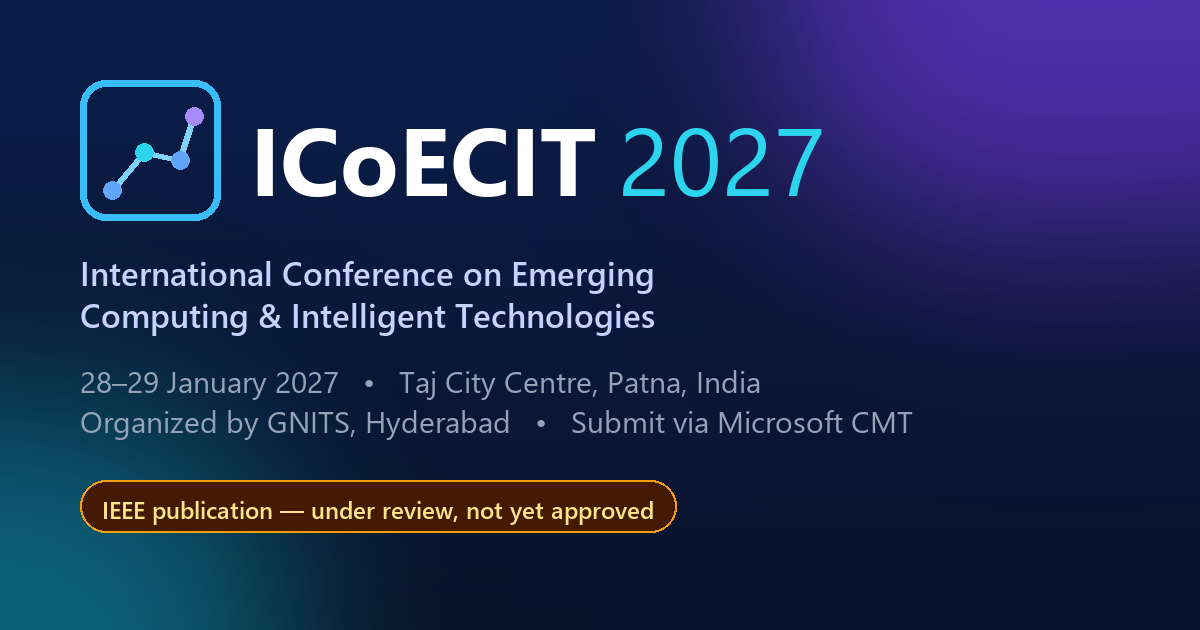
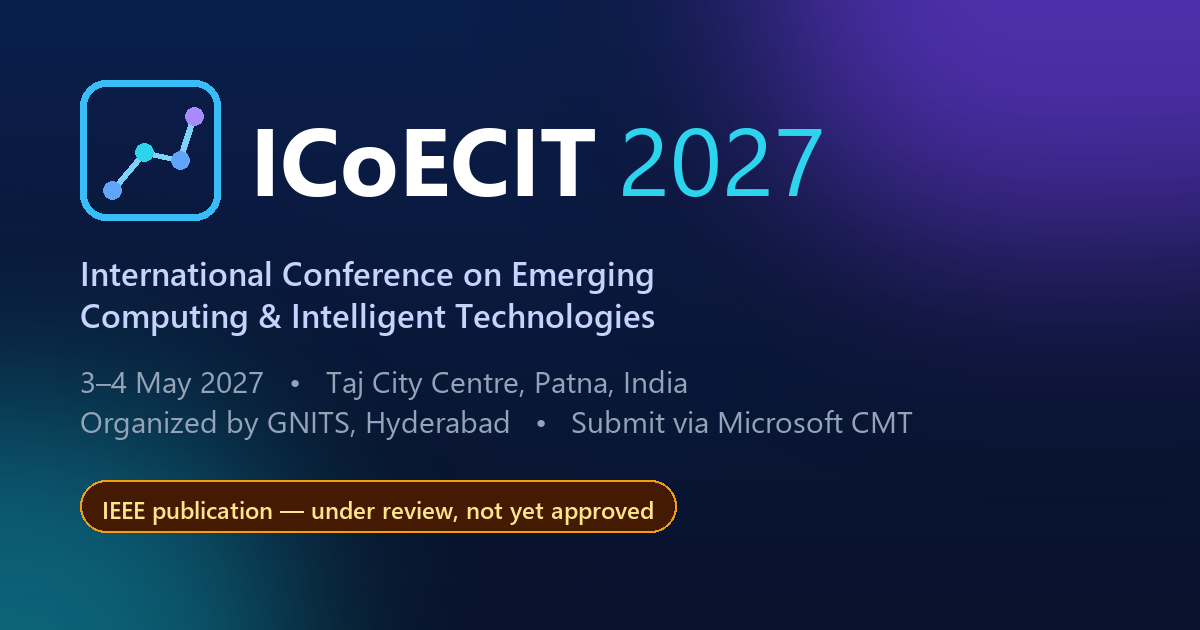
Set conference dates to 3–4 May 2027 and update deadlines
Submission 15 Feb 2027, acceptance 30 Mar 2027, camera-ready and
registration 7 Apr 2027. Updates homepage, CFP, registration, venue,
history, JSON-LD event dates, sitemap and the share image.

Changed region(s): [[0.0617, 0.573, 0.6475, 0.6333]]

diff --git a/index.html b/index.html
@@ -4,7 +4,7 @@
 <meta charset="UTF-8">
 <meta name="viewport" content="width=device-width, initial-scale=1.0">
 <title>ICoECIT 2027 | International Conference on Emerging Computing &amp; Intelligent Technologies</title>
-<meta name="description" content="ICoECIT 2027 — International Conference on Emerging Computing and Intelligent Technologies, 28–29 January 2027 at Taj City Centre, Patna, India. Organized by GNITS, Hyderabad. Call for papers in AI, ML, IoT, cybersecurity, VLSI and smart technologies. IEEE publication application under review.">
+<meta name="description" content="ICoECIT 2027 — International Conference on Emerging Computing and Intelligent Technologies, 3–4 May 2027 at Taj City Centre, Patna, India. Organized by GNITS, Hyderabad. Call for papers in AI, ML, IoT, cybersecurity, VLSI and smart technologies. IEEE publication application under review.">
 <link rel="icon" type="image/svg+xml" href="assets/img/favicon.svg">
 <link rel="preconnect" href="https://fonts.googleapis.com">
 <link rel="preconnect" href="https://fonts.gstatic.com" crossorigin>
@@ -19,7 +19,7 @@
 <meta property="og:type" content="website">
 <meta property="og:site_name" content="ICoECIT 2027">
 <meta property="og:title" content="ICoECIT 2027 | International Conference on Emerging Computing &amp; Intelligent Technologies">
-<meta property="og:description" content="ICoECIT 2027 — International Conference on Emerging Computing and Intelligent Technologies, 28–29 January 2027 at Taj City Centre, Patna, India. Organized by GNITS, Hyderabad. Call for papers in AI, ML, IoT, cybersecurity, VLSI and smart technologies. IEEE publication application under review.">
+<meta property="og:description" content="ICoECIT 2027 — International Conference on Emerging Computing and Intelligent Technologies, 3–4 May 2027 at Taj City Centre, Patna, India. Organized by GNITS, Hyderabad. Call for papers in AI, ML, IoT, cybersecurity, VLSI and smart technologies. IEEE publication application under review.">
 <meta property="og:url" content="https://icoecit.github.io/icoecit2027/">
 <meta property="og:image" content="https://icoecit.github.io/icoecit2027/assets/img/og-image.png">
 <meta property="og:image:width" content="1200">
@@ -27,13 +27,13 @@
 <meta property="og:image:alt" content="ICoECIT 2027 — International Conference on Emerging Computing and Intelligent Technologies">
 <meta name="twitter:card" content="summary_large_image">
 <meta name="twitter:title" content="ICoECIT 2027 | International Conference on Emerging Computing &amp; Intelligent Technologies">
-<meta name="twitter:description" content="ICoECIT 2027 — International Conference on Emerging Computing and Intelligent Technologies, 28–29 January 2027 at Taj City Centre, Patna, India. Organized by GNITS, Hyderabad. Call for papers in AI, ML, IoT, cybersecurity, VLSI and smart technologies. IEEE publication application under review.">
+<meta name="twitter:description" content="ICoECIT 2027 — International Conference on Emerging Computing and Intelligent Technologies, 3–4 May 2027 at Taj City Centre, Patna, India. Organized by GNITS, Hyderabad. Call for papers in AI, ML, IoT, cybersecurity, VLSI and smart technologies. IEEE publication application under review.">
 <meta name="twitter:image" content="https://icoecit.github.io/icoecit2027/assets/img/og-image.png">
 <script type="application/ld+json">
-{"@context": "https://schema.org","@type": "Event","name": "ICoECIT 2027 — International Conference on Emerging Computing and Intelligent Technologies","startDate": "2027-01-28","endDate": "2027-01-29","eventAttendanceMode": "https://schema.org/MixedEventAttendanceMode","eventStatus": "https://schema.org/EventScheduled","location": {"@type": "Place","name": "Taj City Centre, Patna","address": {"@type": "PostalAddress","streetAddress": "Buddh Marg, Christian Colony","addressLocality": "Patna","addressRegion": "Bihar","postalCode": "800001","addressCountry": "IN"}},"image": ["https://icoecit.github.io/icoecit2027/assets/img/og-image.png"],"description": "ICoECIT 2027 — International Conference on Emerging Computing and Intelligent Technologies, 28–29 January 2027 at Taj City Centre, Patna, India. Organized by GNITS, Hyderabad. Call for papers in AI, ML, IoT, cybersecurity, VLSI and smart technologies. IEEE publication application under review.","organizer": {"@type": "Organization","name": "G. Narayanamma Institute of Technology & Science (GNITS)","url": "https://gnits.ac.in/"},"url": "https://icoecit.github.io/icoecit2027/"}
+{"@context": "https://schema.org","@type": "Event","name": "ICoECIT 2027 — International Conference on Emerging Computing and Intelligent Technologies","startDate": "2027-05-03","endDate": "2027-05-04","eventAttendanceMode": "https://schema.org/MixedEventAttendanceMode","eventStatus": "https://schema.org/EventScheduled","location": {"@type": "Place","name": "Taj City Centre, Patna","address": {"@type": "PostalAddress","streetAddress": "Buddh Marg, Christian Colony","addressLocality": "Patna","addressRegion": "Bihar","postalCode": "800001","addressCountry": "IN"}},"image": ["https://icoecit.github.io/icoecit2027/assets/img/og-image.png"],"description": "ICoECIT 2027 — International Conference on Emerging Computing and Intelligent Technologies, 3–4 May 2027 at Taj City Centre, Patna, India. Organized by GNITS, Hyderabad. Call for papers in AI, ML, IoT, cybersecurity, VLSI and smart technologies. IEEE publication application under review.","organizer": {"@type": "Organization","name": "G. Narayanamma Institute of Technology & Science (GNITS)","url": "https://gnits.ac.in/"},"url": "https://icoecit.github.io/icoecit2027/"}
 </script>
 <script type="application/ld+json">
-{"@context": "https://schema.org","@type": "WebSite","name": "ICoECIT 2027","url": "https://icoecit.github.io/icoecit2027/","description": "ICoECIT 2027 — International Conference on Emerging Computing and Intelligent Technologies, 28–29 January 2027 at Taj City Centre, Patna, India. Organized by GNITS, Hyderabad. Call for papers in AI, ML, IoT, cybersecurity, VLSI and smart technologies. IEEE publication application under review."}
+{"@context": "https://schema.org","@type": "WebSite","name": "ICoECIT 2027","url": "https://icoecit.github.io/icoecit2027/","description": "ICoECIT 2027 — International Conference on Emerging Computing and Intelligent Technologies, 3–4 May 2027 at Taj City Centre, Patna, India. Organized by GNITS, Hyderabad. Call for papers in AI, ML, IoT, cybersecurity, VLSI and smart technologies. IEEE publication application under review."}
 </script>
 <script type="application/ld+json">
 {"@context": "https://schema.org","@type": "Organization","name": "G. Narayanamma Institute of Technology & Science (GNITS)","url": "https://gnits.ac.in/","contactPoint": {"@type": "ContactPoint","email": "icoecitconferencesecetary@gmail.com","contactType": "conference secretariat"}}
@@ -76,7 +76,7 @@
     <h1>Emerging Computing &amp; Intelligent Technologies</h1>
     <p class="lede">ICoECIT&nbsp;2027 brings together researchers, academicians, industry professionals and innovators to explore the frontiers of modern computing and intelligent systems — from AI and IoT to cybersecurity, embedded systems and smart electronics.</p>
     <ul class="meta">
-      <li><span class="ic">📅</span><span>28–29 January 2027 <small>Conference dates</small></span></li>
+      <li><span class="ic">📅</span><span>3–4 May 2027 <small>Conference dates</small></span></li>
       <li><span class="ic">📍</span><span>Patna, India <small>Taj City Centre (tentative)</small></span></li>
       <li><span class="ic">🎓</span><span>Hybrid <small>On-site &amp; Online</small></span></li>
     </ul>
@@ -160,16 +160,16 @@
     <div class="section-head">
       <span class="eyebrow">Save the Date</span>
       <h2>Important dates</h2>
-      <p>The schedule below follows the ICoECIT&nbsp;2026 timeline. Dates are indicative and subject to confirmation pending the outcome of the publisher review.</p>
+      <p>Dates are indicative and subject to confirmation pending the outcome of the publisher review.</p>
     </div>
     <ul class="dates" style="max-width:760px;margin-inline:auto">
-      <li><span class="when">Paper Submission Deadline</span><span class="what">30 October 2026</span></li>
-      <li><span class="when">Notification of Acceptance</span><span class="what">1 December 2026</span></li>
-      <li><span class="when">Camera-Ready Submission</span><span class="what">10 December 2026</span></li>
-      <li><span class="when">Author Registration Deadline</span><span class="what">10 December 2026</span></li>
-      <li><span class="when">Conference Dates</span><span class="what">28–29 January 2027 · Taj City Centre, Patna (tentative)</span></li>
+      <li><span class="when">Paper Submission Deadline</span><span class="what">15 February 2027</span></li>
+      <li><span class="when">Notification of Acceptance</span><span class="what">30 March 2027</span></li>
+      <li><span class="when">Camera-Ready Submission</span><span class="what">7 April 2027</span></li>
+      <li><span class="when">Author Registration Deadline</span><span class="what">7 April 2027</span></li>
+      <li><span class="when">Conference Dates</span><span class="what">3–4 May 2027 · Taj City Centre, Patna (tentative)</span></li>
     </ul>
-    <p class="center muted" style="margin-top:22px;font-size:.9rem">Dates mirror the 2026 edition and may be adjusted; final dates will be confirmed once the conference is approved by the publisher.</p>
+    <p class="center muted" style="margin-top:22px;font-size:.9rem">Dates may be adjusted; final dates will be confirmed once the conference is approved by the publisher.</p>
   </div>
 </section>
 

diff --git a/venue.html b/venue.html
@@ -4,7 +4,7 @@
 <meta charset="UTF-8">
 <meta name="viewport" content="width=device-width, initial-scale=1.0">
 <title>Venue — Taj City Centre, Patna | ICoECIT 2027</title>
-<meta name="description" content="ICoECIT 2027 tentative venue: Taj City Centre, Patna, Bihar, India, on 28–29 January 2027. Travel, how to reach and local attractions. Organized by GNITS, Hyderabad.">
+<meta name="description" content="ICoECIT 2027 tentative venue: Taj City Centre, Patna, Bihar, India, on 3–4 May 2027. Travel, how to reach and local attractions. Organized by GNITS, Hyderabad.">
 <link rel="icon" type="image/svg+xml" href="assets/img/favicon.svg">
 <link rel="preconnect" href="https://fonts.googleapis.com">
 <link rel="preconnect" href="https://fonts.gstatic.com" crossorigin>
@@ -19,7 +19,7 @@
 <meta property="og:type" content="website">
 <meta property="og:site_name" content="ICoECIT 2027">
 <meta property="og:title" content="Venue — Taj City Centre, Patna | ICoECIT 2027">
-<meta property="og:description" content="ICoECIT 2027 tentative venue: Taj City Centre, Patna, Bihar, India, on 28–29 January 2027. Travel, how to reach and local attractions. Organized by GNITS, Hyderabad.">
+<meta property="og:description" content="ICoECIT 2027 tentative venue: Taj City Centre, Patna, Bihar, India, on 3–4 May 2027. Travel, how to reach and local attractions. Organized by GNITS, Hyderabad.">
 <meta property="og:url" content="https://icoecit.github.io/icoecit2027/venue.html">
 <meta property="og:image" content="https://icoecit.github.io/icoecit2027/assets/img/og-image.png">
 <meta property="og:image:width" content="1200">
@@ -27,7 +27,7 @@
 <meta property="og:image:alt" content="ICoECIT 2027 — International Conference on Emerging Computing and Intelligent Technologies">
 <meta name="twitter:card" content="summary_large_image">
 <meta name="twitter:title" content="Venue — Taj City Centre, Patna | ICoECIT 2027">
-<meta name="twitter:description" content="ICoECIT 2027 tentative venue: Taj City Centre, Patna, Bihar, India, on 28–29 January 2027. Travel, how to reach and local attractions. Organized by GNITS, Hyderabad.">
+<meta name="twitter:description" content="ICoECIT 2027 tentative venue: Taj City Centre, Patna, Bihar, India, on 3–4 May 2027. Travel, how to reach and local attractions. Organized by GNITS, Hyderabad.">
 <meta name="twitter:image" content="https://icoecit.github.io/icoecit2027/assets/img/og-image.png">
 <script type="application/ld+json">
 {"@context": "https://schema.org","@type": "BreadcrumbList","itemListElement": [{"@type": "ListItem","position": 1,"name": "Home","item": "https://icoecit.github.io/icoecit2027/"},{"@type": "ListItem","position": 2,"name": "Venue","item": "https://icoecit.github.io/icoecit2027/venue.html"}]}
@@ -64,7 +64,7 @@
     <div class="breadcrumb"><a href="./">Home</a> / Venue</div>
     <span class="eyebrow">Venue</span>
     <h1>Patna, Bihar, India</h1>
-    <p>ICoECIT&nbsp;2027 is tentatively proposed to be held on <strong>28–29 January 2027</strong> at <strong>Taj City Centre, Patna</strong>. The conference is organized by G. Narayanamma Institute of Technology &amp; Science (GNITS), Hyderabad.</p>
+    <p>ICoECIT&nbsp;2027 is tentatively proposed to be held on <strong>3–4 May 2027</strong> at <strong>Taj City Centre, Patna</strong>. The conference is organized by G. Narayanamma Institute of Technology &amp; Science (GNITS), Hyderabad.</p>
   </div>
 </div>
 
@@ -118,7 +118,7 @@
   <div class="container center">
     <div class="grid g-4">
       <div class="stat"><div class="n">Hybrid</div><div class="l">On-site &amp; Online</div></div>
-      <div class="stat"><div class="n">28–29 Jan</div><div class="l">2027 · Conference</div></div>
+      <div class="stat"><div class="n">3–4 May</div><div class="l">2027 · Conference</div></div>
       <div class="stat"><div class="n">Patna</div><div class="l">Bihar, India</div></div>
       <div class="stat"><div class="n">GNITS</div><div class="l">Organizer</div></div>
     </div>

diff --git a/call-for-papers.html b/call-for-papers.html
@@ -157,7 +157,7 @@
         </ul>
         <div class="notice info" style="margin-top:16px">
           <span class="ic">📅</span>
-          <div><p><strong>Key dates:</strong> Submission <strong>30 Oct 2026</strong> · Acceptance <strong>1 Dec 2026</strong> · Camera-ready &amp; registration <strong>10 Dec 2026</strong> · Conference <strong>28–29 Jan 2027</strong>. Dates follow the ICoECIT&nbsp;2026 timeline and are subject to confirmation pending publisher approval.</p></div>
+          <div><p><strong>Key dates:</strong> Submission <strong>15 Feb 2027</strong> · Acceptance <strong>30 Mar 2027</strong> · Camera-ready &amp; registration <strong>7 Apr 2027</strong> · Conference <strong>3–4 May 2027</strong>. Dates are indicative and subject to confirmation pending publisher approval.</p></div>
         </div>
       </div>
     </div>

diff --git a/history.html b/history.html
@@ -90,7 +90,7 @@
       <div class="yr">2027<small>2nd Edition</small></div>
       <div>
         <h3 style="margin-bottom:.3em">ICoECIT 2027 — upcoming</h3>
-        <p class="muted" style="margin-bottom:10px">28–29 January 2027 (tentative) · Taj City Centre, Patna, Bihar, India</p>
+        <p class="muted" style="margin-bottom:10px">3–4 May 2027 (tentative) · Taj City Centre, Patna, Bihar, India</p>
         <p>The second edition is in preparation. An application for <strong>IEEE technical co-sponsorship and publication is currently under review with the publisher and has not yet been approved.</strong> Details, dates and the submission portal will be published here once approval is confirmed.</p>
         <div class="badge-review">⏳ Publisher review in progress — not yet approved</div>
         <div style="margin-top:16px">

diff --git a/registration.html b/registration.html
@@ -106,7 +106,7 @@
         </tbody>
       </table>
     </div>
-    <p class="center muted" style="margin-top:18px;font-size:.9rem;max-width:760px;margin-inline:auto">Registrations completed after the regular deadline (10&nbsp;December&nbsp;2026, tentative) are charged at the “Late Registration” rates. Bank / payment-gateway charges and taxes apply on the actual amount as per the financial agency / Government norms.</p>
+    <p class="center muted" style="margin-top:18px;font-size:.9rem;max-width:760px;margin-inline:auto">Registrations completed after the regular deadline (7&nbsp;April&nbsp;2027, tentative) are charged at the “Late Registration” rates. Bank / payment-gateway charges and taxes apply on the actual amount as per the financial agency / Government norms.</p>
   </div>
 </section>
 

diff --git a/README.md b/README.md
@@ -73,14 +73,14 @@ Once approval + a signed agreement arrive:
 1. Update the red status banner text (or remove it) on **every** page.
 2. Add the IEEE / IEEE-section logo where permitted, with the correct
    “Technically Co-Sponsored by …” wording.
-3. Confirm **dates** (currently mirroring 2026), add **fees** (search for `TBA`), and
+3. Confirm **dates** (conference 3–4 May 2027; deadlines provisional), add **fees** (search for `TBA`), and
    activate the conference-specific **Microsoft CMT** submission link on the CFP page.
 
 ## 5. Content that is provisional / needs confirming
 
-- **Dates** — set to mirror the ICoECIT 2026 timeline: Submission **30 Oct 2026**,
-  Acceptance **1 Dec 2026**, Camera-ready & registration **10 Dec 2026**,
-  Conference **28–29 Jan 2027**. Shown as indicative pending approval.
+- **Dates** — set for a May 2027 conference: Submission **15 Feb 2027**,
+  Acceptance **30 Mar 2027**, Camera-ready & registration **7 Apr 2027**,
+  Conference **3–4 May 2027**. Shown as indicative pending approval.
 - **Fees** — set from the official fee sheet (`fEES.xlsx`): Indian categories ₹8,000–₹16,000,
   non-Indian authors $200, extra pages ₹500/₹800 per page, certificates ₹500/₹800. Shown as
   subject to confirmation pending approval. Registration only via the payment-gateway link in
